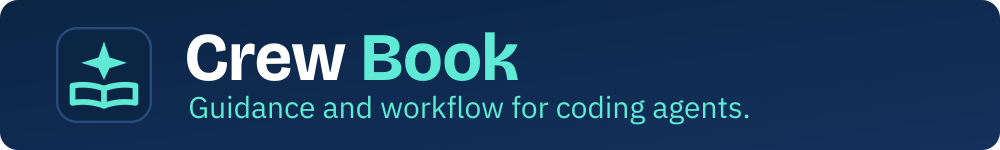
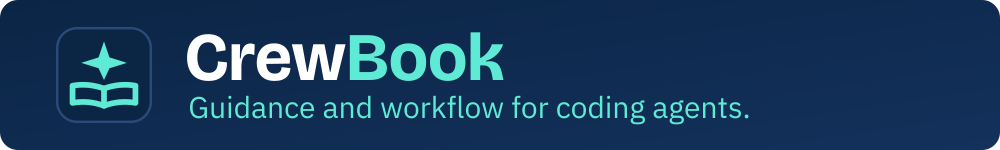
fix(brand): set the wordmark as CrewBook
Werner decided the wordmark is one word like WorkHarbor: "Crew" in white,
"Book" in teal, same Bricolage Grotesque Bold outlines, size and baseline.
The banner and social preview are regenerated; the social preview stays
centred on its widest line, the tagline. BRAND.md gains the name rule
(crewbook in prose, CrewBook only in the wordmark) and drops the two-word
exception.

Refs: #88

Changed region(s): [[0.341, 0.2133, 0.527, 0.56]]

diff --git a/assets/BRAND.md b/assets/BRAND.md
@@ -1,10 +1,13 @@
-# Crew Book brand rule
+# crewbook brand rule
 
 One rule for every asset, so the logo, the icons, the README banner and the
 social preview look like one product (#88). The rule is derived from
 workharbor's `assets/BRAND.md`: the same tile, colours, type and lockup
-geometry, with a different mark. Name and casing: the package, skill and paths
-are `crewbook`; only the wordmark and reader-facing prose use **Crew Book**.
+geometry, with a different mark.
+
+Name: the product is **crewbook**, lowercase, in prose, code, paths and
+packages. Only the wordmark (banner, social preview) sets it as **CrewBook**,
+one word like workharbor's "WorkHarbor".
 
 ## The mark
 
@@ -19,8 +22,9 @@ parts are never redrawn in the other style.
   `favicon.ico`, `apple-touch-icon.png`): the teal mark on a rounded navy tile.
   Tile corner radius 13.28 units in the 64-unit box (workharbor's tile); the
   mark's drawn height 70 % of the side (47 units scaled by 0.95319), centred,
-  so it stays legible at 16 px. Every rounded tile has a visible outline: 1.6 units in the 64-unit
-  box (2.5 % of the side), colour `#2a4a7a`, drawn inside the tile's edge.
+  so it stays legible at 16 px. Every rounded tile has a visible outline: 1.6
+  units in the 64-unit box (2.5 % of the side), colour `#2a4a7a`, drawn inside
+  the tile's edge.
 - **Horizontal lockup** (any wide place): the bare teal mark, no tile, then
   the wordmark. A lockup never appears in a square place, and a tile never
   appears in a lockup, except as listed below.
@@ -30,7 +34,8 @@ parts are never redrawn in the other style.
 1. **Tile lockup in the README banner and the social preview.** As in
    workharbor (#143), these two assets show the mark on its rounded tile beside
    the wordmark and the tagline: 96 px in the banner (64 units at scale 1.5),
-   288 px in the social preview (scale 4.5).
+   288 px in the social preview (scale 4.5). Unlike workharbor's, the social
+   preview carries no third line.
 2. **Background gradient.** The banner and the social preview use workharbor's
    diagonal gradient from navy `#0b2545` to `#13315c`. It is the only gradient,
    and `#13315c` appears nowhere else.
@@ -39,28 +44,26 @@ parts are never redrawn in the other style.
    mask and fills transparent pixels with black.
 4. **Stroke and fill.** Unlike workharbor's all-stroke anchor, the star is a
    filled shape beside the book's strokes (see The mark).
-5. **Two words.** The wordmark has a space ("Crew Book"); workharbor's is one
-   word. The social preview carries no third line.
 
 ## The lockup, in proportions of the wordmark's cap height C
 
 | Element | Rule |
 | --- | --- |
-| Wordmark | "Crew Book" in Bricolage Grotesque Bold (wght 700, no added letter spacing), outlined: "Crew" in the text colour, "Book" in teal; cap height 0.66 × font size |
+| Wordmark | "CrewBook", one word, in Bricolage Grotesque Bold (wght 700, no added letter spacing), outlined: "Crew" in the text colour, "Book" in teal; cap height 0.66 × font size |
 | Mark, tile lockup | tile 2.14 × C in the banner, 4.36 × C in the social preview; the wordmark's ink starts about 0.8 × C to the right of the tile |
 | Mark, bare lockup | drawn height 2.4 × C, vertically centred on the wordmark's cap height; book stroke 5.5 in the 64-unit drawing; gap to the wordmark 0.6 × C |
 | Tagline | "Guidance and workflow for coding agents.", IBM Plex Sans Regular, outlined, teal, left-aligned with the wordmark (its origin 3.5 px right of the wordmark's origin in the banner, 4 px in the social preview) |
 | Clear space | at least 0.45 × C above and below the whole block (tile and text); in the README banner the tile leaves 27 px, 0.6 × C, at top and bottom |
 
 The banner and social preview reuse workharbor's exact positions and sizes, so
-"Crew Book" and "WorkHarbor" sit at the same scale, baseline and spacing.
+"CrewBook" and "WorkHarbor" sit at the same scale, baseline and spacing.
 
 ## Sizes
 
 | Asset | Size | Wordmark | Tagline |
 | --- | --- | --- | --- |
 | README banner | 1000 × 150, rounded 18 px; tile at (56, 27) | 68 px (optical size 72), C = 44.9 px, baseline 80, ink from x 187.08 | 30 px, baseline 118 (0.85 × C below) |
-| Social preview | 1280 × 640; tile at y 184, the whole block centred horizontally | 100 px (optical size 96), C = 66 px, baseline 318 | 36 px, baseline 388 (1.06 × C below) |
+| Social preview | 1280 × 640; tile at (132.7, 184), the whole block (tile to the end of the tagline, its widest line) centred horizontally | 100 px (optical size 96), C = 66 px, baseline 318 | 36 px, baseline 388 (1.06 × C below) |
 | `logo.png` | 512 × 512, from `logo.svg` | none | none |
 | `favicon.ico` | 16, 32 and 48 px, from `favicon.svg` | none | none |
 | `apple-touch-icon.png` | 180 × 180, full bleed | none | none |
